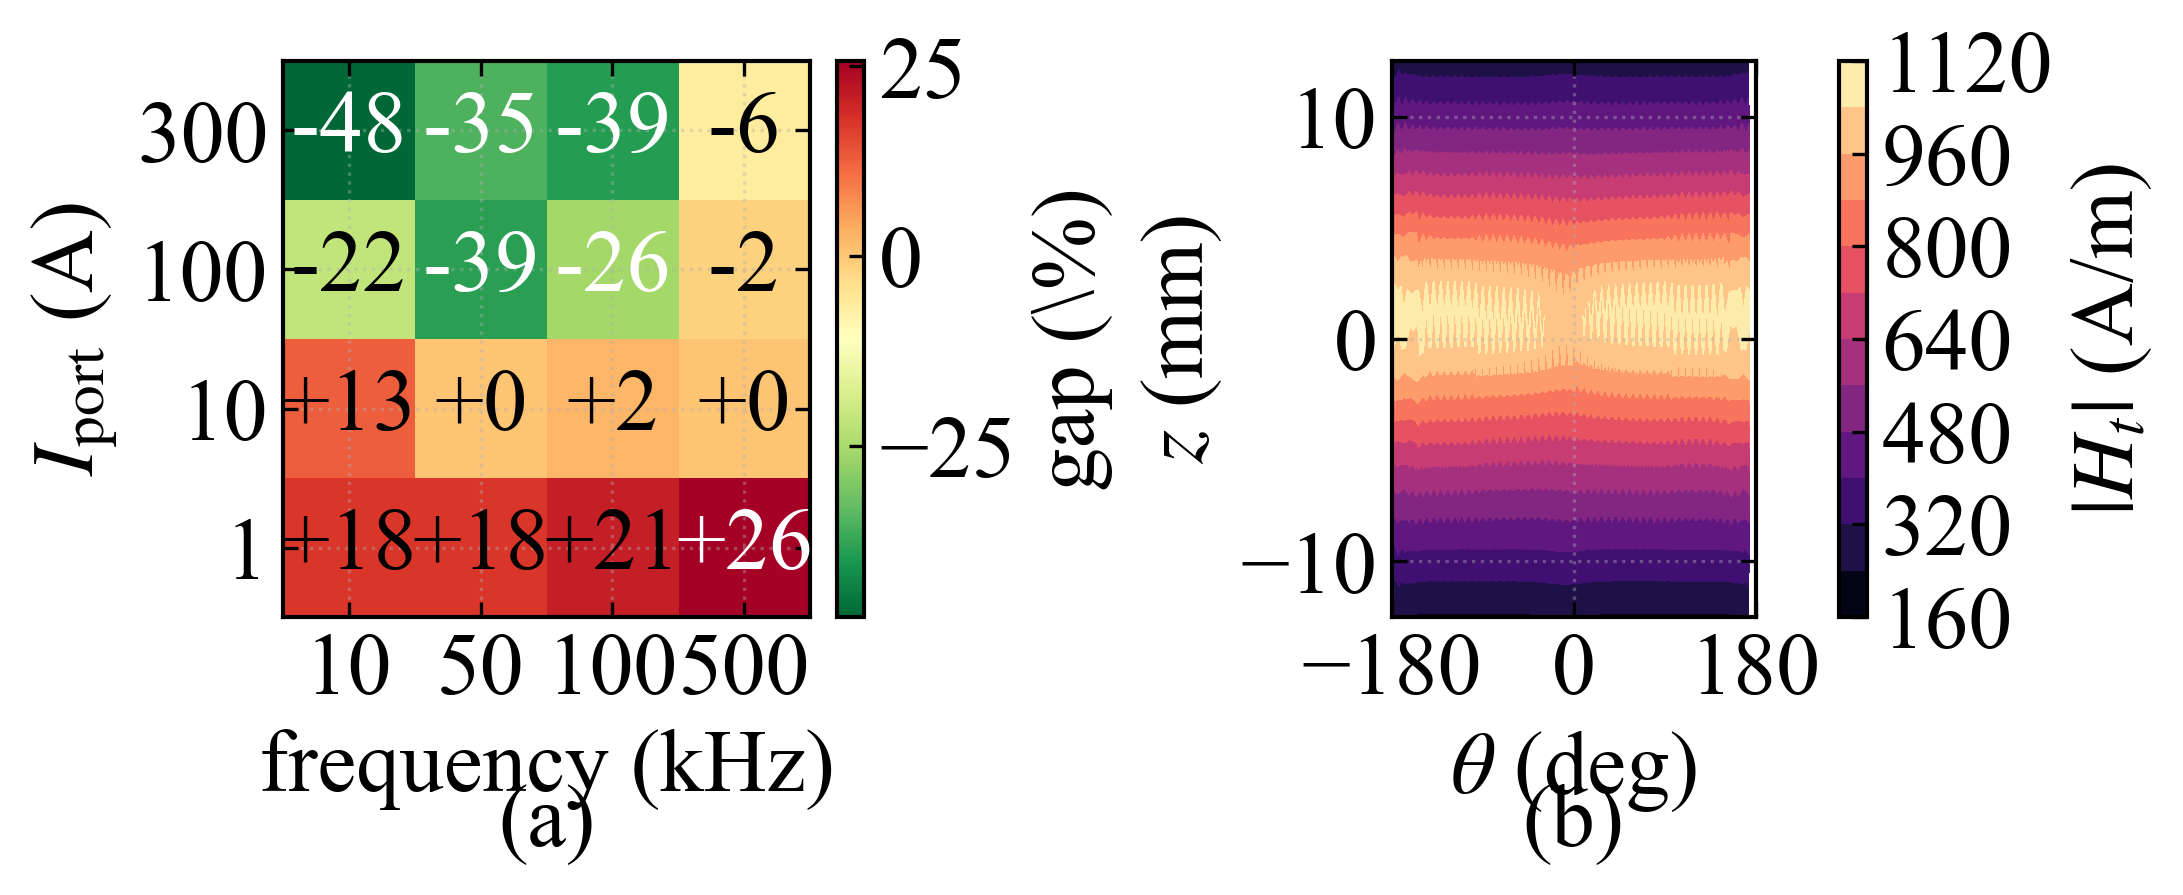
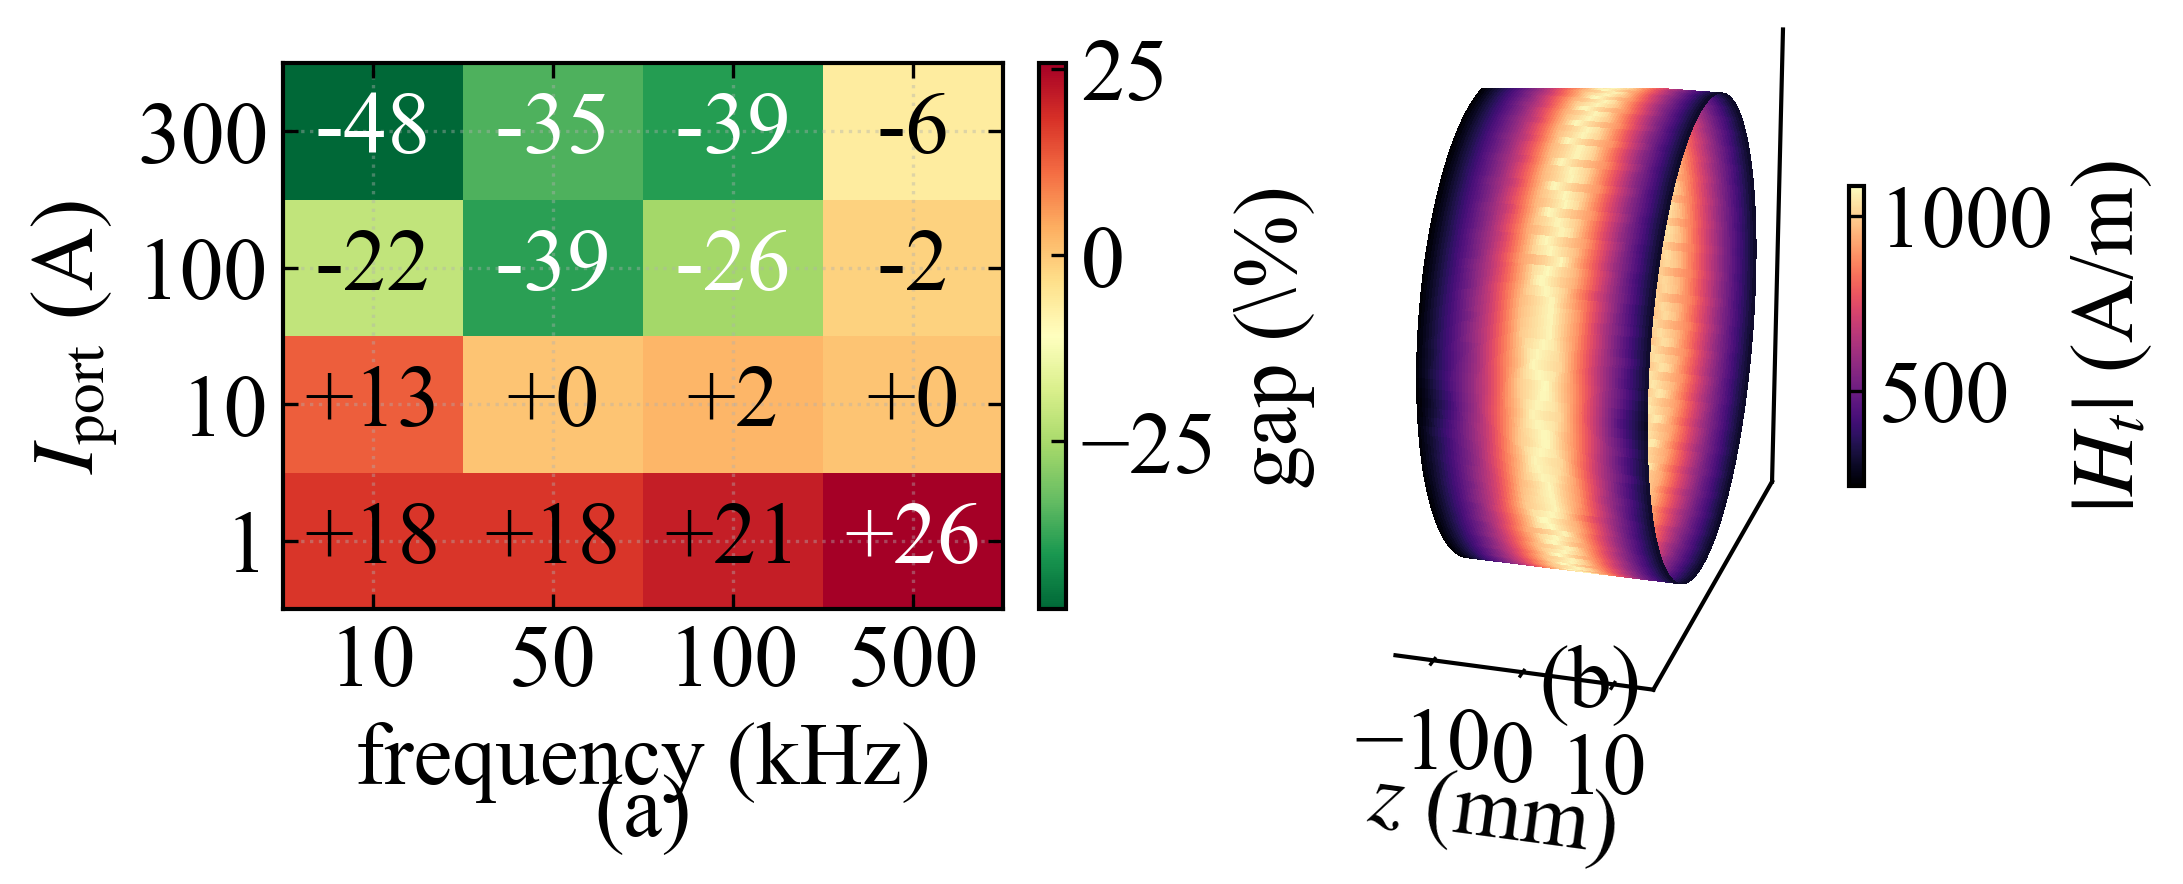
ih_esim_benchmark: digest panel (b) |H_t| as 3D cylinder surface
Per author request, paint |H_t| on the actual cylinder side wall
(matplotlib 3D plot_surface) instead of the unrolled (theta,z) map.
The scattered side-wall DOFs are interpolated onto a regular grid
(theta tiled +-360 for a seamless wrap) and mapped to (x,y,z).  The
cylinder is laid horizontal (axis along x) with physically-exact
proportions and zoom=1.5 so it fills the wide, short in-column panel;
the coil concentration reads as a bright hot band.  PyVista is not used
(removed from the repo per the visualization policy) -- staying in
matplotlib keeps the lab font/embed checks (>= 9 pt at 0.46 downscale).

diff --git a/examples/ih_esim_benchmark/plot_digest_figure.py b/examples/ih_esim_benchmark/plot_digest_figure.py
@@ -22,6 +22,9 @@ import numpy as np
 import matplotlib
 matplotlib.use("Agg")
 import matplotlib.pyplot as plt
+from matplotlib import cm
+from matplotlib.colors import Normalize
+from scipy.interpolate import griddata
 
 from mcp_server_document.graph.tools import (
     apply_lab_style, lab_savefig, check_min_font,
@@ -67,7 +70,9 @@ def load_ht_map(json_path, vol_path):
     x, y, z = pts.T
     r = np.sqrt(x**2 + y**2)
     side = r > 0.95 * r.max()
-    return np.degrees(np.arctan2(y[side], x[side])), z[side] * 1e3, H[side]
+    R_mm = float(r[side].mean()) * 1e3
+    return (np.degrees(np.arctan2(y[side], x[side])), z[side] * 1e3,
+            H[side], R_mm)
 
 
 def main():
@@ -78,7 +83,7 @@ def main():
             print(f"ERROR: {p} not found.")
             sys.exit(1)
     currents, freqs, gap = load_gap(res)
-    th, zs, Ht = load_ht_map(perp, VOL)
+    th, zs, Ht, R = load_ht_map(perp, VOL)
 
     figsize = apply_lab_style(target="paper_double_column", aspect=0.40)
     # Render with inflated fonts so that, after the ~0.44 in-column
@@ -90,9 +95,10 @@ def main():
         "font.size": 21, "axes.labelsize": 21,
         "xtick.labelsize": 21, "ytick.labelsize": 21,
     })
-    fig, (ax1, ax2) = plt.subplots(
-        1, 2, figsize=figsize, constrained_layout=True,
-        gridspec_kw={"width_ratios": [1.45, 1.0]})
+    fig = plt.figure(figsize=figsize, constrained_layout=True)
+    gs = fig.add_gridspec(1, 2, width_ratios=[1.45, 1.0])
+    ax1 = fig.add_subplot(gs[0, 0])
+    ax2 = fig.add_subplot(gs[0, 1], projection="3d")
     tick_pt = plt.rcParams["ytick.labelsize"]
 
     # ----- (a) gap heatmap (narrower), annotated cells -----
@@ -115,18 +121,43 @@ def main():
                          color="white" if abs(gap[i, j]) > 25 else "black")
     ax1.text(0.5, -0.30, "(a)", transform=ax1.transAxes, ha="center", va="top")
 
-    # ----- (b) |H_t| filled-contour map on the cylinder side wall -----
-    # Side-wall DOFs are scattered (theta, z) points, not a grid, so use
-    # Delaunay-triangulated filled contours (tricontourf).  The field is
-    # banded with the coil turns -> roughly horizontal contour bands.
-    tcf = ax2.tricontourf(th, zs, Ht, levels=12, cmap="magma")
-    cb2 = fig.colorbar(tcf, ax=ax2)
+    # ----- (b) |H_t| painted on the 3D cylinder side wall -----
+    # Interpolate the scattered (theta, z) side-wall DOFs onto a regular
+    # grid (theta tiled +-360 so the wrap is seamless), map to the
+    # cylinder (x, y, z) and paint |H_t| via plot_surface facecolors.
+    th_a = np.concatenate([th - 360, th, th + 360])
+    z_a = np.concatenate([zs, zs, zs])
+    H_a = np.concatenate([Ht, Ht, Ht])
+    TH, ZZ = np.meshgrid(np.linspace(-180, 180, 160),
+                         np.linspace(zs.min(), zs.max(), 80))
+    Hg = griddata((th_a, z_a), H_a, (TH, ZZ), method="linear")
+    Hg = np.where(np.isnan(Hg),
+                  griddata((th_a, z_a), H_a, (TH, ZZ), method="nearest"), Hg)
+    nrm = Normalize(vmin=Ht.min(), vmax=Ht.max())
+    # Lay the cylinder axis along x (horizontal) so it fills the wide,
+    # short in-column panel; the hot coil band reads as a bright ring.
+    ax2.plot_surface(ZZ, R * np.cos(np.radians(TH)), R * np.sin(np.radians(TH)),
+                     facecolors=cm.magma(nrm(Hg)), rstride=1, cstride=1,
+                     linewidth=0, antialiased=False, shade=False)
+    # Physically-exact proportions (axial span : diameter : diameter);
+    # zoom fills the small panel without distorting the cylinder.
+    ax2.set_box_aspect((zs.max() - zs.min(), 2 * R, 2 * R), zoom=1.5)
+    ax2.view_init(elev=20, azim=-74)
+    ax2.grid(False)
+    for axp in (ax2.xaxis, ax2.yaxis, ax2.zaxis):
+        axp.pane.set_visible(False)
+    ax2.set_yticks([])
+    ax2.set_zticks([])
+    ax2.set_xticks([-10, 0, 10])
+    ax2.tick_params(axis="x", pad=-4)
+    ax2.set_xlabel(r"$z$ (mm)", labelpad=-9)
+    sm = cm.ScalarMappable(norm=nrm, cmap="magma")
+    sm.set_array([])
+    cb2 = fig.colorbar(sm, ax=ax2, shrink=0.55, pad=0.02)
     cb2.set_label(r"$|H_t|$ (A/m)")
     cb2.ax.tick_params(labelsize=tick_pt)
-    ax2.set_xlabel(r"$\theta$ (deg)")
-    ax2.set_ylabel(r"$z$ (mm)")
-    ax2.set_xticks([-180, 0, 180])
-    ax2.text(0.5, -0.30, "(b)", transform=ax2.transAxes, ha="center", va="top")
+    ax2.text2D(0.5, -0.12, "(b)", transform=ax2.transAxes, ha="center",
+               va="top")
 
     fig.canvas.draw()
     bad = check_min_font(fig, min_pt=MIN_PT, embed_scale=EMBED_SCALE)
